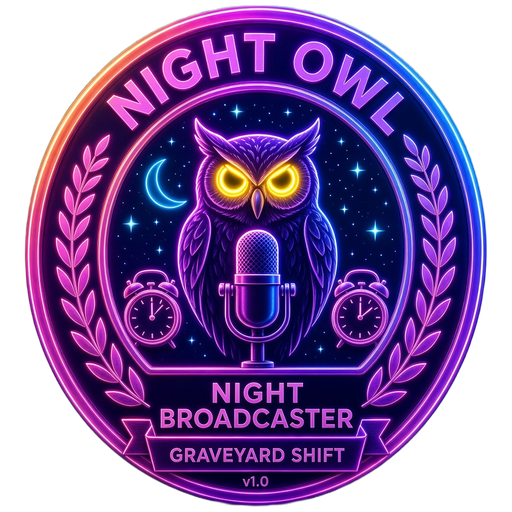
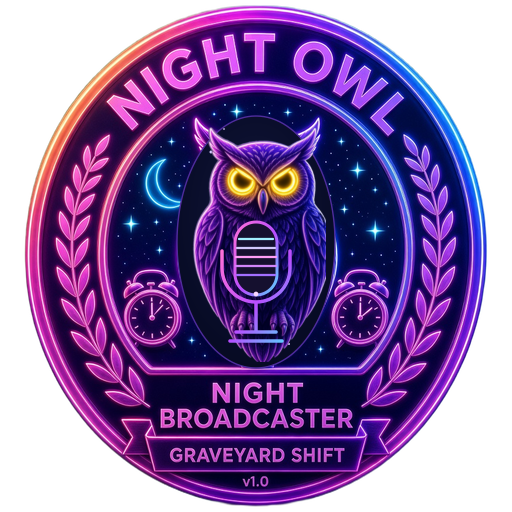
Update night owl badge assets and profile view components
Replit-Commit-Author: Agent

Changed region(s): [[0.3438, 0.2188, 0.6562, 0.7188]]

diff --git a/artifacts/we-buggin/src/social/common.tsx b/artifacts/we-buggin/src/social/common.tsx
@@ -31,7 +31,7 @@ export function BadgeMark({ id, label, size = 14, compact = false }: { id: strin
   const nightOwl = id === 'night-owl';
   return <span className={`sc-badge${compact ? ' sc-badge-compact' : ''}${nightOwl ? ' sc-badge-night-owl' : ''}`} title={label ?? 'Cosmetic badge'}>
     {nightOwl
-      ? <img src={`${import.meta.env.BASE_URL}badges/night-owl-mark.svg`} width={size} height={size} alt="" aria-hidden="true" />
+      ? <img src={`${import.meta.env.BASE_URL}badges/night-owl-mark.png`} width={size} height={size} alt="" aria-hidden="true" />
       : <I size={size} aria-hidden />}
     <span className="sc-sr">{label ?? 'Badge'}</span>
   </span>;

diff --git a/artifacts/we-buggin/src/profile/ProfileView.tsx b/artifacts/we-buggin/src/profile/ProfileView.tsx
@@ -103,7 +103,7 @@ function Shield({ id, name, date, equipped }: { id: string; name: string; date: 
     <li className={`pf-badge${equipped ? ' is-equipped' : ''}`} data-testid={`badge-${id}`}>
       <span className={`pf-shield${nightOwl ? ' pf-shield-night-owl' : ''}`} aria-hidden="true">
         {nightOwl
-          ? <img className="pf-shield-art" src={`${import.meta.env.BASE_URL}badges/night-owl-mark.svg`} alt="" />
+          ? <img className="pf-shield-art" src={`${import.meta.env.BASE_URL}badges/night-owl.png`} alt="" />
           : <span><I size={22} /></span>}
       </span>
       <b>{name}</b>

diff --git a/artifacts/we-buggin/src/social/BadgeArt.tsx b/artifacts/we-buggin/src/social/BadgeArt.tsx
@@ -3,7 +3,7 @@ import { useEffect, useState } from 'react';
 export const BADGE_ART: Record<string, string> = {
   'good-neighbor': 'peak-presenter.png',
   'marathon-master': 'marathon-master.png',
-  'night-owl': 'night-owl-mark.svg',
+  'night-owl': 'night-owl.png',
 };
 
 export function BadgeArt({ id, name }: { id: string; name: string }) {

diff --git a/.agents/memory/image-tooling.md b/.agents/memory/image-tooling.md
@@ -9,6 +9,12 @@ Do not rely on ImageMagick montage's default font when assembling image review s
 
 **How to apply:** For visual asset reviews, separate contact-sheet tooling errors from actual image-generation or decoding failures.
 
+For chroma-key cutouts, do not key only on green-versus-red: compare green against both red and blue, and verify the result over light and dark backgrounds. Preserve an untouched base before compositing.
+
+**Why:** Green-versus-red keying can erase white details, while low-contrast green fringes and overwritten source layers can make a composite look damaged.
+
+**How to apply:** Keep a source copy, derive alpha from green dominance over both other channels, and inspect edge quality on contrasting backgrounds before replacing a project asset.
+
 When composing onto a canvas with Sharp, materialize the composite before resizing the finished image.
 
 **Why:** Sharp can perform resize before compositing even when chained afterward, so a large overlay fails against the newly smaller canvas.
